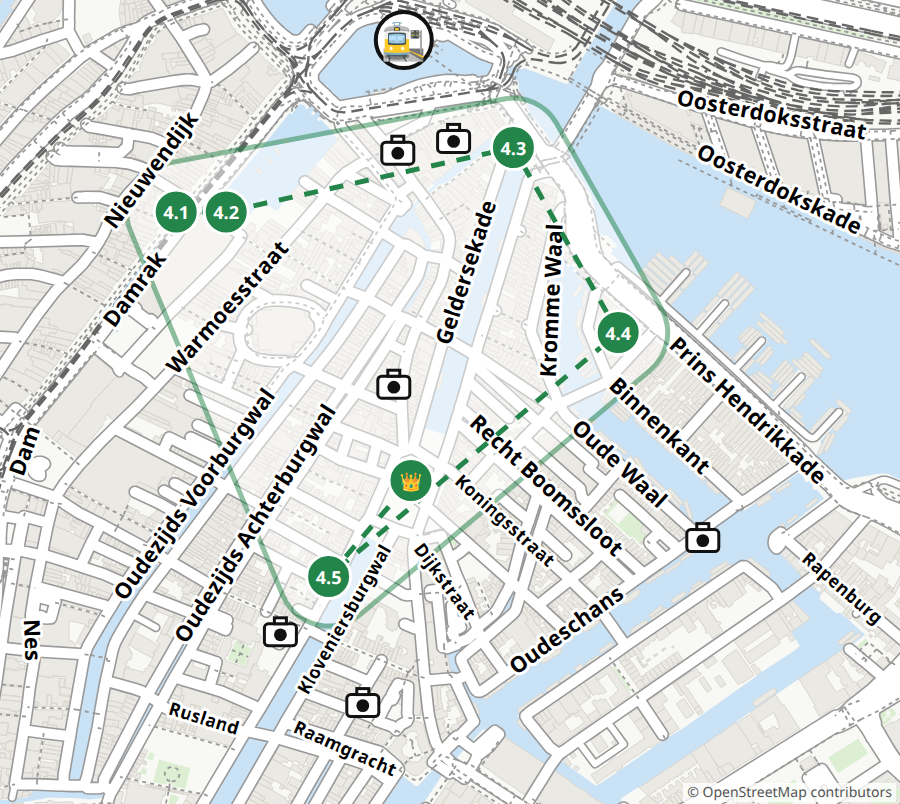
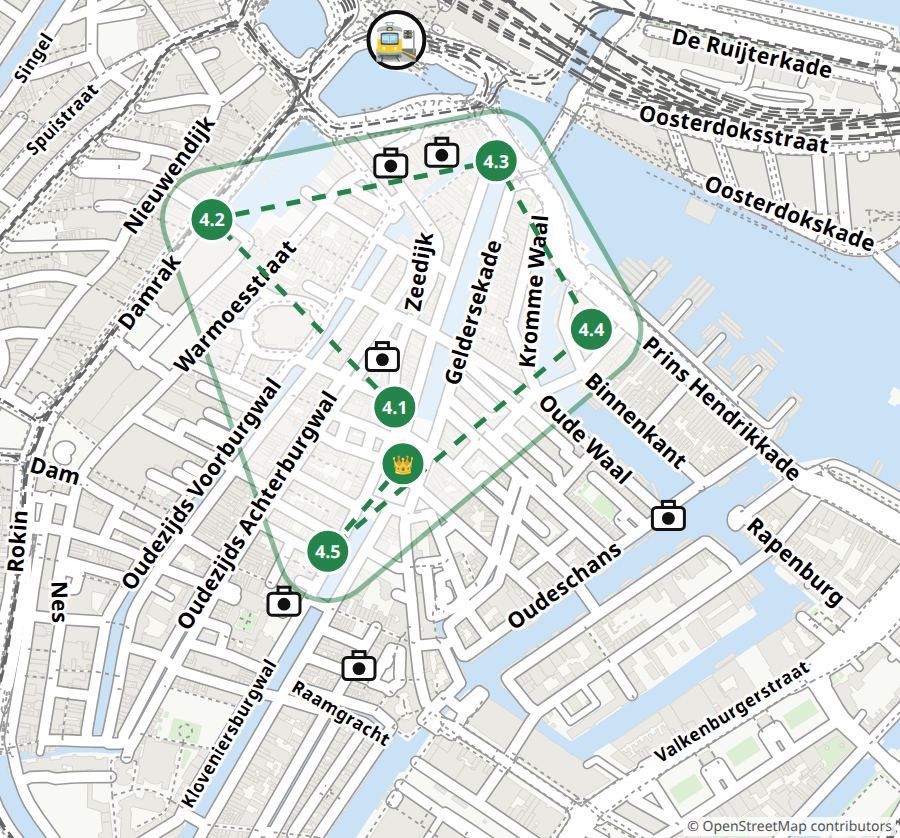
Website: photo-hunt target names link to their spot on Google Maps (spots get a name); task "via" points steer a walk; zone 4 is a circle from the Chinese temple (4.1) past Tony's, the harbour front and a loop by Montelbaanstoren, Zuiderkerk and the VOC gate, no street walked twice

diff --git a/.claude/skills/city-quest/scripts/build_quest.py b/.claude/skills/city-quest/scripts/build_quest.py
@@ -381,6 +381,21 @@ def walk_route(g, a, b, snap=150):
     return path[::-1], names, dist[nb]
 
 
+def walk_to(g, a, t):
+    """The walk from point `a` to task `t`, through its optional "via" points ([{"lat", "lon"}…], in order)."""
+    pts = [a] + [(v["lat"], v["lon"]) for v in t.get("via", [])] + [(t["lat"], t["lon"])]
+    path, names, total = [], {}, 0.0
+    for x, y in zip(pts, pts[1:]):
+        r = walk_route(g, x, y)
+        if r is None:
+            return None
+        path += r[0][1:] if path else r[0]
+        for n, m in r[1].items():
+            names[n] = names.get(n, 0) + m
+        total += r[2]
+    return path, names, total
+
+
 def join_chains(lines):
     """Join polylines (lists of points) that share end points into longer ones."""
     chains = [list(l) for l in lines if len(l) > 1]
@@ -559,7 +574,7 @@ def route_legs(sel, stops):
             if b.get("leg"):
                 legs[id(b)] = None
                 continue
-            r = walk_route(g, (a["lat"], a["lon"]), (b["lat"], b["lon"]))
+            r = walk_to(g, (a["lat"], a["lon"]), b)
             if r is None:
                 print(f"WARNING: zone {zi}: no walking connection from «{a.get('title')}» to «{b.get('title')}» on the map; "
                       'check the coordinates, or mark the leg "leg": "ferry"/"tram"')
@@ -911,6 +926,17 @@ def place_html(t, links=False):
     return f'<div class="place">📍 <a href="{link}">{text}</a></div>' if link else f'<div class="place">📍 {text}</div>'
 
 
+def task_text_html(ch, links=False):
+    """A task's text; on screen, each photo-hunt `spots` entry with a `name` links its words in the text to the spot on a map."""
+    text = esc(ch.get("text"))
+    if links:
+        for sp in ch.get("spots", []):
+            name = esc(sp.get("name", ""))
+            if name and name in text:
+                text = text.replace(name, f'<a href="{gmaps(sp["lat"], sp["lon"])}">{name}</a>', 1)
+    return text
+
+
 def challenge_li(ch, label, links=False):
     icon, _ = TYPES.get(ch.get("type"), ("⭐", ""))
     duel = ' <span class="duel-tag">⚔</span>' if ch.get("duel") and ch.get("type") != "duel" else ""
@@ -918,7 +944,7 @@ def challenge_li(ch, label, links=False):
     return f"""<li class="ch">
       <span class="num">{esc(label)}</span><span class="icon">{icon}</span>
       <div class="body"><div class="ch-title"><b>{esc(ch.get('title'))}</b>{duel} {task_coins_html(ch)}</div>
-      <div class="ch-text">{esc(ch.get('text'))}</div>{place}</div>
+      <div class="ch-text">{task_text_html(ch, links)}</div>{place}</div>
       <span class="box"></span></li>"""
 
 

diff --git a/.claude/skills/city-quest/scripts/route_report.py b/.claude/skills/city-quest/scripts/route_report.py
@@ -24,8 +24,8 @@ import urllib.request
 from pathlib import Path
 
 sys.path.insert(0, str(Path(__file__).parent))
-from build_quest import (OVERPASS_URLS, fetch_streets, metres, task_label, walk_graph, walk_route,  # noqa: E402
-                         walking_order, zone_tasks)
+from build_quest import (OVERPASS_URLS, fetch_streets, metres, task_label, walk_graph,  # noqa: E402
+                         walk_to, walking_order, zone_tasks)
 
 POI_CACHE = Path.home() / ".cache" / "city-quest" / "poi"
 KID_KMH = 3.0           # a 7-year-old's walking pace with stops to look around
@@ -223,7 +223,7 @@ def main():
             if tb.get("leg"):
                 out += [f"- {title}: by {tb['leg']}, not walked", ""]
                 continue
-            r = walk_route(g, (ta["lat"], ta["lon"]), (tb["lat"], tb["lon"]))
+            r = walk_to(g, (ta["lat"], ta["lon"]), tb)
             if r is None:
                 out += [f"- {title}: ⚠ no walking connection found", ""]
                 warn.append(f"{la}→{lb} unconnected")

diff --git a/amsterdam/quest-routes.md b/amsterdam/quest-routes.md
@@ -106,15 +106,17 @@ Kid pace 3 km/h. *Passed* = within 35 m of the way; *detour* = 35–120 m off it
 
 ## Zone 4 · Ньюмаркт и Весовая
 
-- **4.1 → 4.2** Фотоохота по зоне → Шоколад вслепую: 0 m, ~0 min · same spot
-  - along: —
-  - passed (0): —
+- **4.1 → 4.2** Фотоохота по зоне → Шоколад вслепую: 748 m, ~15 min 
+  - along: quiet street 51%, car-free 49%, along water 60%
+  - streets: Zeedijk, Warmoesstraat, Nieuwebrugsteeg, Oudebrugsteeg, Sint Olofssteeg
+  - passed (3): Rederij Plas [tourism=attraction]; Sint Olofskapel [tourism=attraction]; Plaquette Chet Baker [historic]
+  - short detour (24): Majoor Bosshardt [tourism=artwork] 37 m; Huddesteen [historic] 38 m; Nieuwe Brug [bridge] 40 m; Prins Hendrikkade [bridge] 40 m; Het Majoor Bosshardthuis [tourism=museum] 46 m; Armbrug [bridge] 57 m; Chinatown [tourism=attraction] 57 m; Stromma Open Boat Tours [tourism=attraction] 69 m; Erotisch Museum [tourism=museum] 71 m; Bredero [tourism=artwork] 71 m; Beurs van Berlage [tourism=attraction] 73 m; Co-kathedrale Basiliek van Sint Nicolaas [amenity=place_of_worship] 73 m
 
-- **4.2 → 4.3** Шоколад вслепую → Башня путешественника: 504 m, ~10 min 
-  - along: car-free 95%, along water 81%
-  - streets: Prins Hendrikkade
-  - passed (8): Venustempel Sexmuseum [tourism=museum]; Stromma Open Boat Tours [tourism=attraction]; Stromma NL [tourism=attraction]; Rederij Plas [tourism=attraction]; Huddesteen [historic]; Plaquette Chet Baker [historic]; Nieuwe Brug [bridge]; Prins Hendrikkade [bridge]
-  - short detour (7): Co-kathedrale Basiliek van Sint Nicolaas [amenity=place_of_worship] 39 m; Sint Olofskapel [tourism=attraction] 58 m; Stromma [tourism=attraction] 58 m; Beurs van Berlage [tourism=attraction] 73 m; Sint Nicolaasbrug [bridge] 94 m; Rederij Kooij [tourism=attraction] 108 m; (unnamed historic) [historic] 112 m
+- **4.2 → 4.3** Шоколад вслепую → Башня путешественника: 562 m, ~11 min ⚠ 44% main road
+  - along: main road 44%, car-free 51%, along water 90%
+  - streets: Prins Hendrikkade, Damrak
+  - passed (5): Venustempel Sexmuseum [tourism=museum]; Huddesteen [historic]; Nieuwe Brug [bridge]; Prins Hendrikkade [bridge] (+1 seen before)
+  - short detour (10): Rederij Plas [tourism=attraction] 44 m; Stromma Open Boat Tours [tourism=attraction] 50 m; Stromma NL [tourism=attraction] 50 m; Stromma [tourism=attraction] 52 m; Co-kathedrale Basiliek van Sint Nicolaas [amenity=place_of_worship] 52 m; Beurs van Berlage [tourism=attraction] 69 m; Sint Olofskapel [tourism=attraction] 71 m; Sint Nicolaasbrug [bridge] 87 m; Rederij Kooij [tourism=attraction] 103 m; (unnamed historic) [historic] 104 m
 
 - **4.3 → 4.4** Башня путешественника → Морские чудища: 300 m, ~6 min 
   - along: quiet street 8%, car-free 92%, along water 81%
@@ -122,19 +124,19 @@ Kid pace 3 km/h. *Passed* = within 35 m of the way; *detour* = 35–120 m off it
   - passed (0): —
   - short detour (2): Prins Hendrik [tourism=artwork] 37 m; Co-kathedrale Basiliek van Sint Nicolaas [amenity=place_of_worship] 69 m
 
-- **4.4 → 4.5** Морские чудища → Дом шириной с дверь: 638 m, ~13 min 
-  - along: quiet street 52%, car-free 48%, along water 50%
-  - streets: Nieuwmarkt, Kloveniersburgwal, Buiten Bantammerstraat, Lastageweg, Waalseilandbrug, Brandewijnsteeg, Koningsstraat
-  - passed (2): Bredero [tourism=artwork]; Chinatown [tourism=attraction]
-  - short detour (9): Wijnkopersgildehuis [tourism=attraction] 60 m; Recht Boomssloot [bridge] 73 m; Fo Guang Shan He Hua Tempel [tourism=attraction] 79 m; Oost-Indisch Huis [tourism=attraction] 93 m; Walenpoortje [tourism=attraction] 96 m; Prins Hendrik [tourism=artwork] 102 m; Kompakt meets Oz [tourism=gallery] 106 m; Red Light Secrets [tourism=museum] 109 m; Off the Wall [tourism=gallery] 115 m
+- **4.4 → 4.5** Морские чудища → Дом шириной с дверь: 1434 m, ~29 min 
+  - along: quiet street 80%, car-free 20%, along water 79%
+  - streets: Oudeschans, Binnenkant, Kloveniersburgwal, Raamgracht, Zuiderkerkhof, Buiten Bantammerstraat, Montelbaansbrug, Snoekjessteeg, Oost-Indische Huisbrug, Moddermolenstraat
+  - passed (6): Zuiderkerkstoren [tourism=attraction]; Oost-Indisch Huis [tourism=attraction]; (unnamed fountain) [amenity=fountain]; Oudeschans [bridge]; Montelbaanstoren [tourism=attraction]; Zuiderkerk [tourism=attraction]
+  - short detour (12): Levensboom [tourism=artwork] 48 m; Walenpoortje [tourism=attraction] 58 m; Speeltuin De Waag [leisure=playground] 63 m; Waalse kerk [amenity=place_of_worship] 67 m; Wijnkopersgildehuis [tourism=attraction] 69 m; Grenspaal [historic] 73 m; Rembrandthuis [tourism=museum] 75 m; Spinhuispoort [tourism=attraction] 99 m; Prins Hendrik [tourism=artwork] 102 m; (unnamed playground) [leisure=playground] 104 m; Kikkerbilsluis [man_made=bridge] 104 m; school nr. 2 [historic] 111 m
 
-- **4.5 → 4.👑** Дом шириной с дверь → ⏱ Мастера гильдий: 154 m, ~3 min ⚠ 99% on streets already walked
+- **4.5 → 4.👑** Дом шириной с дверь → ⏱ Мастера гильдий: 154 m, ~3 min 
   - along: quiet street 99%, along water 62%
   - streets: Kloveniersburgwal, Nieuwmarkt
   - passed (0): —
-  - short detour (8): Wijnkopersgildehuis [tourism=attraction] 60 m; Chinatown [tourism=attraction] 73 m; Bredero [tourism=artwork] 74 m; Oost-Indisch Huis [tourism=attraction] 93 m; Walenpoortje [tourism=attraction] 96 m; Fo Guang Shan He Hua Tempel [tourism=attraction] 110 m; Off the Wall [tourism=gallery] 115 m; Kompakt meets Oz [tourism=gallery] 115 m
+  - short detour (7): Wijnkopersgildehuis [tourism=attraction] 60 m; Chinatown [tourism=attraction] 73 m; Bredero [tourism=artwork] 74 m; Oost-Indisch Huis [tourism=attraction] 93 m; Walenpoortje [tourism=attraction] 96 m; Off the Wall [tourism=gallery] 115 m; Kompakt meets Oz [tourism=gallery] 115 m
 
-**Total walked: 1.6 km, ~32 min** (plus time at the stops). Flags: 4.5→4.👑 99% on streets already walked.
+**Total walked: 3.2 km, ~64 min** (plus time at the stops). Flags: 4.2→4.3 44% main road.
 
 ## Zone 5 · Корабли и NEMO
 

diff --git a/.claude/skills/city-quest/SKILL.md b/.claude/skills/city-quest/SKILL.md
@@ -177,9 +177,13 @@ Write `<output folder>/quest.json` following `references/example-quest.json`
   reached by ferry, tram or another ride gets `"leg": "ferry"` (or `"tram"`…):
   it is not checked for a walking connection. A `trail`
   challenge's place is hidden from the kid (it is the riddle's answer).
-  A photo hunt lists its targets in `spots` (`[{"lat", "lon"}]`): each is drawn on the zone
+  A photo hunt lists its targets in `spots` (`[{"lat", "lon", "name"}]`): each is drawn on the zone
   map as a camera icon without a name, so the kid sees which way to go; the card can then
-  name the places.
+  name the places. `name` is the target's words exactly as in the task text: on the website
+  they become a Google Maps link to the spot.
+  `"via": [{"lat", "lon"}…]` on a task makes the walk to it pass these points in order
+  (a quieter street, a loop instead of walking the same street twice, past hunt targets);
+  the route report and the map routing follow it.
 - `rules`: `steps`, `perks` (`cost`, `text`), `curse_intro`, `curses`, and
   optional `nav_bonus` (coins per zone when the kid navigates all its stops alone;
   printed as 🧭 dots on the zone's coin line and added to the rank check).
